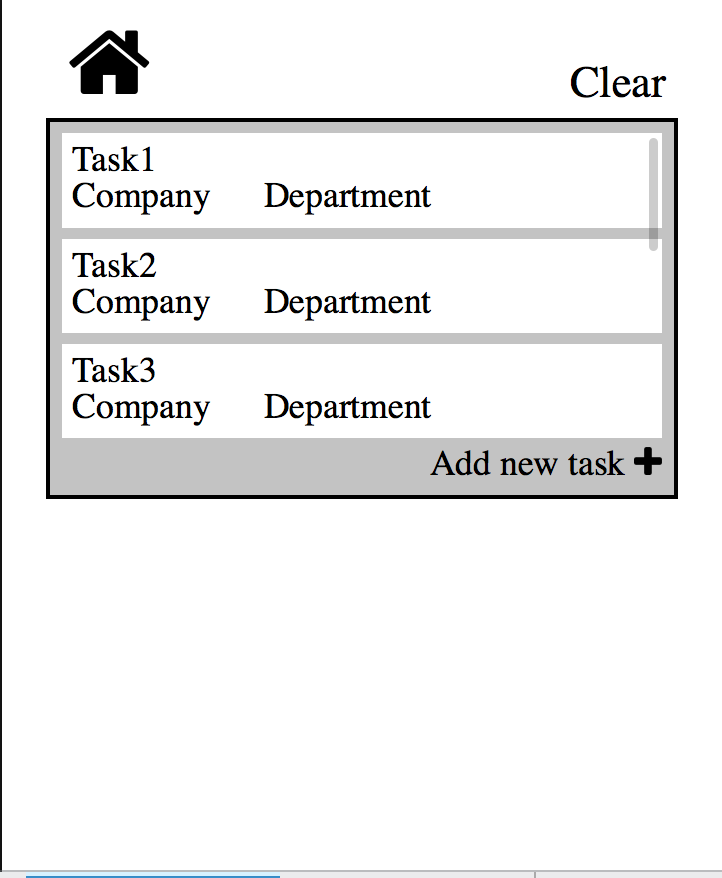
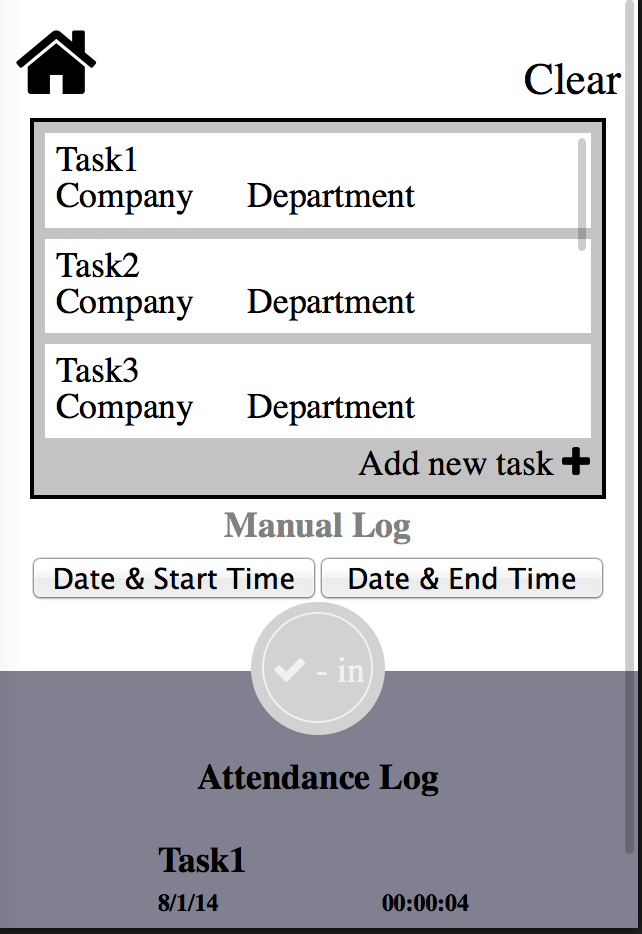
screen2 complete but missing color scheme

diff --git a/screen2.html b/screen2.html
@@ -8,56 +8,67 @@
     <link href="//maxcdn.bootstrapcdn.com/font-awesome/4.2.0/css/font-awesome.min.css" rel="stylesheet">
 </head>
 <body id="screen2">
-    <header id="screen2Header">
-        <ul id="headerUnorderList">
-           <li class="backHome"><i class="fa fa-home fa-2x"></i></li>
-           <li id="clearOption">Clear</li>
+    <section id="upSection">
+        <header id="screen2Header">
+            <ul id="headerUnorderList">
+               <li class="backHome"><i class="fa fa-home fa-2x"></i></li>
+               <li id="clearOption">Clear</li>
+            </ul>
+        </header>
+        <ul id="tasksList">
+            <li id="innerTasksList">
+                <ul>
+                    <li class="name">Task1</li>
+                    <li class="company">Company</li>
+                    <li class="department">Department</li>
+                </ul>
+                <ul>
+                    <li class="name">Task2</li>
+                    <li class="company">Company</li>
+                    <li class="department">Department</li>
+                </ul>
+
+                <ul>
+                    <li class="name">Task3</li>
+                    <li class="company">Company</li>
+                    <li class="department">Department</li>
+                </ul>
+
+                <ul>
+                    <li class="name">Task4</li>
+                    <li class="company">Company</li>
+                    <li class="department">Department</li>
+                </ul>
+
+                <ul>
+                    <li class="name">Task5</li>
+                    <li class="company">Company</li>
+                    <li class="department">Department</li>
+                </ul>
+                <ul>
+                    <li class="name">Task6</li>
+                    <li class="company">Company</li>
+                    <li class="department">Department</li>
+                </ul>
+
+                <ul>
+                    <li class="name">Task7</li>
+                    <li class="company">Company</li>
+                    <li class="department">Department</li>
+                </ul>
+
+            </li>
+            <li id="addMore">Add new task <i class="fa fa-plus fa-1x"></i></li>
         </ul>
-    </header>
-    <ul id="tasksList">
-        <li id="innerTasksList">
-            <ul>
-                <li class="name">Task1</li>
-                <li class="company">Company</li>
-                <li class="department">Department</li>
-            </ul>
-            <ul>
-                <li class="name">Task2</li>
-                <li class="company">Company</li>
-                <li class="department">Department</li>
-            </ul>
-
-            <ul>
-                <li class="name">Task3</li>
-                <li class="company">Company</li>
-                <li class="department">Department</li>
-            </ul>
-
-            <ul>
-                <li class="name">Task4</li>
-                <li class="company">Company</li>
-                <li class="department">Department</li>
-            </ul>
-
-            <ul>
-                <li class="name">Task5</li>
-                <li class="company">Company</li>
-                <li class="department">Department</li>
-            </ul>
-            <ul>
-                <li class="name">Task6</li>
-                <li class="company">Company</li>
-                <li class="department">Department</li>
-            </ul>
-
-            <ul>
-                <li class="name">Task7</li>
-                <li class="company">Company</li>
-                <li class="department">Department</li>
-            </ul>
-
-        </li>
-        <li id="addMore">Add new task <i class="fa fa-plus fa-1x"></i></li>
-    </ul>
+        <h4 id="manuallog">Manual Log</h4>
+        <button id="startbtn">Date & Start Time</button><button id="endbtn">Date & End Time</button>
+    </section>
+    <div id="checkin"><a href="#"><span id="innerCheckin"><i class="fa fa-check fa-1x"></i> - in</span></a></div>
+    <section id="downSection">
+        <h4 id="attendance-log">Attendance Log</h4>
+        <h4 id="chosenName">Task1</h4>
+        <h6 id="chosenDate">8/1/14</h6>
+        <h6 id="chosenTime">00:00:04</h6>
+    </section>
 </body>
 </html>

diff --git a/style.css b/style.css
@@ -3,6 +3,10 @@ html, body{
     padding:0;
 }
 
+html{
+    height: 100%;
+}
+
 ul{
     list-style-type:none;
 }
@@ -206,11 +210,10 @@ header{
 }
 
 #screen2{
-    background-color: white;
+    height:100%;
 }
 
 #screen2Header{
-    position: relative;
     margin:0;
     padding:0;
     margin-top:10px;
@@ -221,21 +224,19 @@ header{
 #screen2Header ul{
     padding:0;
     margin:0;
+
 }
 
 .backHome{
-    position: absolute;
-    top: 0;
-    left: 30px;
+    display:inline;
+    margin-right:65%;
 }
 
 .backHome:hover{
     cursor:pointer;
 }
 #screen2 #clearOption{
-    position: absolute;
-    top: 20px;
-    right: 25px;
+    display:inline;
 }
 #screen2 #clearOption:hover{
     cursor:pointer;
@@ -243,8 +244,7 @@ header{
 
 #screen2 #tasksList{
     border: 2px solid black;
-    margin: 20px;
-    margin-top: 5px;
+    margin: 5px 5% 5px 5%;
     padding: 5px;
     background-color: #c3c3c3;
 }
@@ -280,6 +280,82 @@ header{
 #screen2 #addMore i:hover{
     cursor: pointer;
     background-color: #b5b5b5;
+}
+
+
+#manuallog{
+    margin-bottom: 5px;
+    margin-top:5px;
+    text-align: center;
+    color:gray;
+}
+
+#startbtn{
+    /*padding not working*/
+    font-size:80%;
+    width:45%;
+    margin-left:5%;
+}
+#endbtn{
+    font-size:80%;
+    width:45%;
+    margin-right:5%;
+}
+
+#screen2 #upSection{
+    background-color: white;
+    height:70%;
+}
+#screen2 #downSection{
+    background-color: #808090;
+    height:30%;
+    padding-top:20px;
+    text-align: center;
+}
+
+#screen2 #checkin a{
+    display:block;
+    text-decoration: none;
+    height:80%;
+    width:80%;
+    border-radius: 50%;
+    border:1px solid #f1f1f1;
+    position:relative;
+    top:8%;
+    left:8%;
+    color: #f1f1f1;
+}
+
+#screen2 #checkin{
+    position: absolute;
+    background-color: #d2d2d2;
+    width:60px;
+    height:60px;
+    border-radius: 50%;
+    top:65%;
+    left:calc(50% - 30px);
+}
+
+#innerCheckin{
+    top:35%;
+    left:8%;
+    position: absolute;
+}
+
+#chosenName{
+    position:absolute;
+    bottom:0px;
+    left:25%;
+}
+#chosenDate{
+    position:absolute;
+    bottom:-20px;
+    left:25%;
+}
+#chosenTime{
+    position:absolute;
+    bottom:-20px;
+    left:60%
 }
 
 
